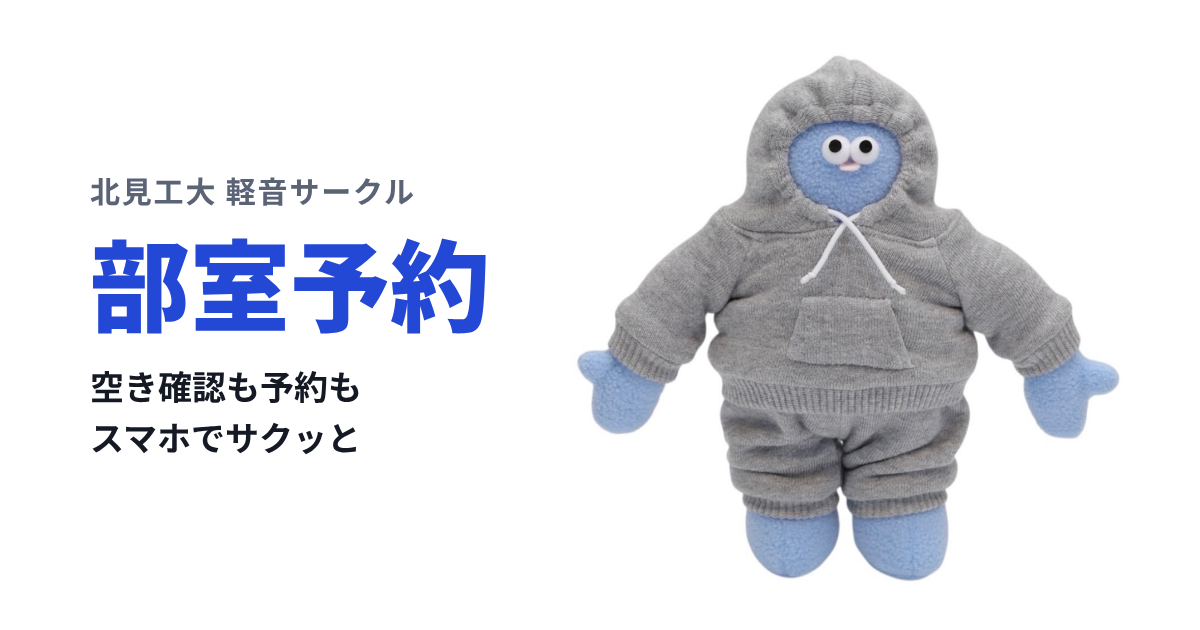
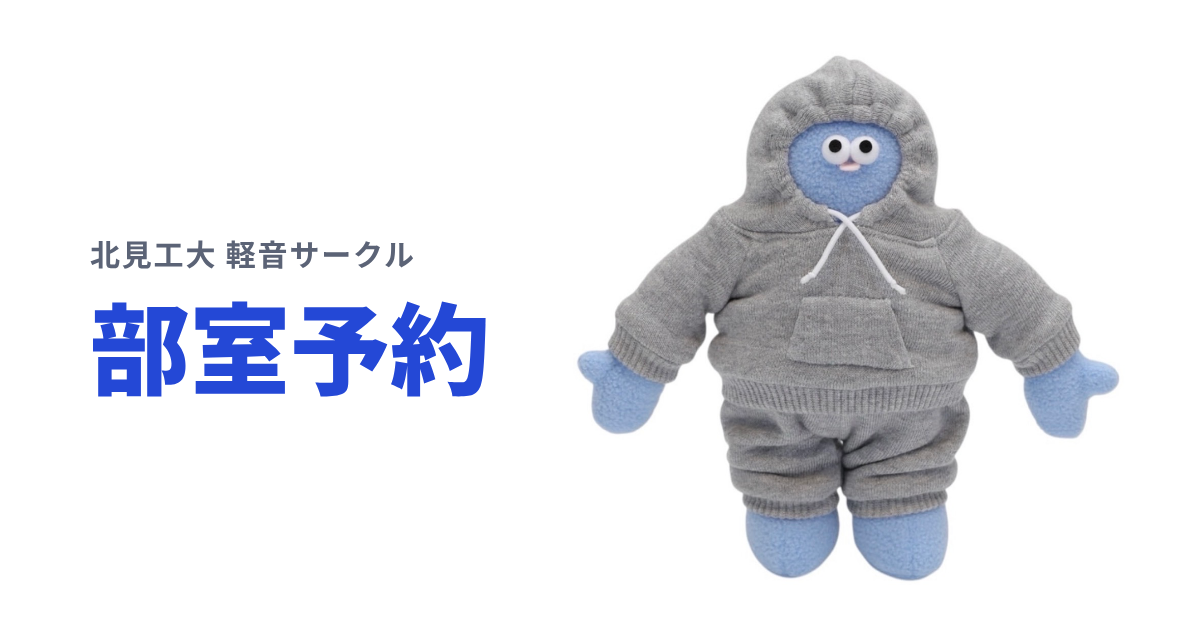
Simplify link preview text
Claude-Session: https://claude.ai/code/session_0118GgS3fkiv7DxK4tFG1K9Q

Changed region(s): [[0.0617, 0.3619, 0.4317, 0.7238], [0.0617, 0.2714, 0.3392, 0.3317]]

diff --git a/index.html b/index.html
@@ -7,7 +7,7 @@
 <meta name="description" content="北見工大 軽音サークルの部室予約">
 <meta property="og:type" content="website">
 <meta property="og:title" content="北見工大 軽音予約">
-<meta property="og:description" content="部室の空き確認も予約もスマホでサクッと">
+<meta property="og:description" content="北見工大 軽音サークルの部室予約">
 <meta property="og:url" content="https://yamadachimney.github.io/kitami-keion-yoyaku/">
 <meta property="og:image" content="https://yamadachimney.github.io/kitami-keion-yoyaku/icons/og.png">
 <meta property="og:image:width" content="1200">
